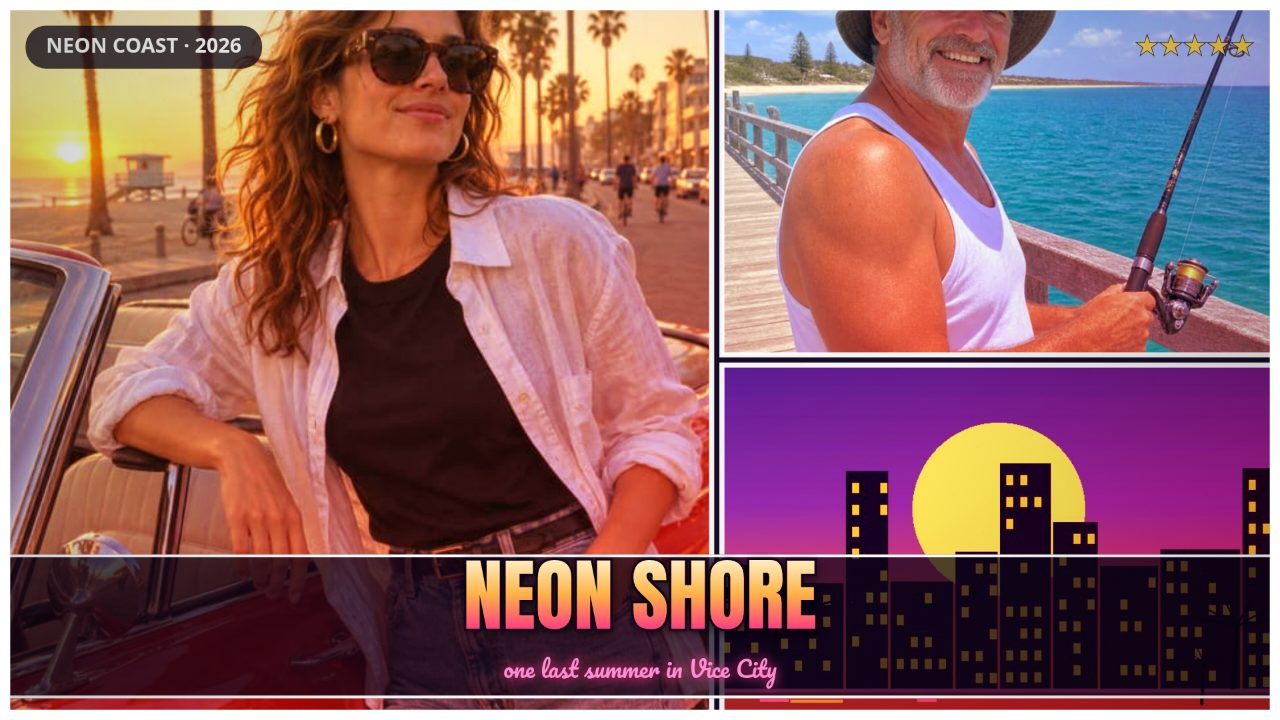
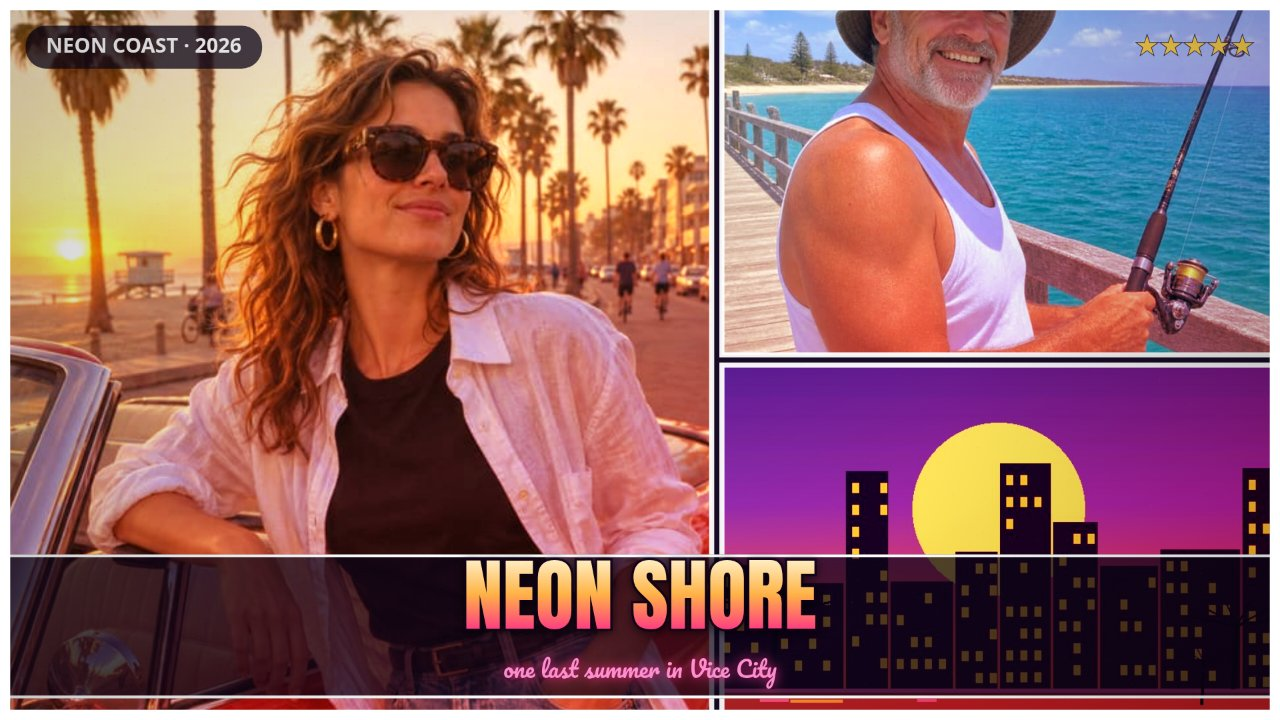
Polish pass: drag-to-pan, selected-panel outline, full-overflow pan, better default framing
- Pan sliders now travel the photo's whole overflow, so a portrait photo
  in a wide panel can still show the face; hero defaults to panelY 0.85
  so the sample's face lands in frame instead of being cropped away
- Live preview outlines the selected panel (pink dashed outline + PANEL n
  tag, drawn over the title band); cover shots and exports stay clean
- Drag the photo inside the preview to pan it; Reset crop button returns
  the selected panel to zoom 1, centred
- shots.js takes panelX/panelY/panelZoom/selected params; cover shots
  force no selection; shots 3-4 reframed (title bottom, inset face)
- serve.ts: friendly error when the port is busy, .avif MIME; main.ts
  logs the dossier byte size; screenshots regenerated

diff --git a/app/src/cover.js b/app/src/cover.js
@@ -97,6 +97,9 @@ export const SIZES = {
 };
 
 // A fresh default state: samples in every slot, hero panel on photo A.
+// The hero panel's photo is panned down (panelY 0.85) so the sample's face,
+// which sits in the top third of a portrait photo, lands inside the wide
+// hero panel instead of being cropped away by the cover fit.
 export function defaultState() {
   return {
     layout: 'viceGrid',
@@ -112,7 +115,7 @@ export function defaultState() {
     panelPhoto: [0, 1, 2, 0],
     panelZoom: [1, 1, 1, 1],
     panelX: [0, 0, 0, 0],
-    panelY: [0, 0, 0, 0],
+    panelY: [0.85, 0, 0, 0],
   };
 }
 
@@ -143,6 +146,10 @@ export function panelPolygon(panel, w, h, gutter) {
 }
 
 // Draws one photo into one panel: cover-fit, zoomed and panned, then graded.
+// The pan sliders move the photo across its whole overflow (the part cover-fit
+// crops away), so at either end the photo's edge reaches the panel's edge —
+// with a portrait photo in a wide panel that is the difference between a
+// headless torso and a face in frame.
 export function drawPanelPhoto(ctx, photo, panel, w, h, grade, zoom, ox, oy) {
   const poly = panelPolygon(panel, w, h, Math.max(3, w * 0.004));
   ctx.save();
@@ -159,8 +166,12 @@ export function drawPanelPhoto(ctx, photo, panel, w, h, grade, zoom, ox, oy) {
     const scale = base * (zoom || 1);
     const pw = photo.naturalWidth * scale;
     const ph = photo.naturalHeight * scale;
+    // Pan across the overflow, not a fixed slice of the panel: at ox/oy = ±1
+    // the photo's edge meets the panel's edge, whatever the zoom.
+    const maxOX = Math.max(0, (pw - bw) / 2);
+    const maxOY = Math.max(0, (ph - bh) / 2);
     ctx.filter = grade.filter;
-    ctx.drawImage(photo, bx + (bw - pw) / 2 + (ox || 0) * bw * 0.3, by + (bh - ph) / 2 + (oy || 0) * bh * 0.3, pw, ph);
+    ctx.drawImage(photo, bx + (bw - pw) / 2 + (ox || 0) * maxOX, by + (bh - ph) / 2 + (oy || 0) * maxOY, pw, ph);
     ctx.filter = 'none';
   } else {
     ctx.fillStyle = '#3a2049';
@@ -297,9 +308,41 @@ export function drawGrainVignette(ctx, w, h) {
   ctx.restore();
 }
 
+// A bright dashed outline plus a "PANEL n" tag around the panel the editor
+// has selected, so a click (or a drag) in the preview answers visibly. The
+// export path never passes a selection, so exported covers stay clean.
+export function drawSelectedOutline(ctx, panel, w, h, label) {
+  const poly = panelPolygon(panel, w, h, Math.max(3, w * 0.004));
+  ctx.save();
+  ctx.beginPath();
+  poly.forEach(([px, py], i) => (i === 0 ? ctx.moveTo(px, py) : ctx.lineTo(px, py)));
+  ctx.closePath();
+  ctx.setLineDash([Math.max(8, w * 0.014), Math.max(6, w * 0.008)]);
+  ctx.strokeStyle = '#ff2e88';
+  ctx.lineWidth = Math.max(3, w * 0.005);
+  ctx.stroke();
+  ctx.setLineDash([]);
+  const fs = Math.max(15, w * 0.016);
+  ctx.font = `bold ${fs}px system-ui, sans-serif`;
+  const tw = ctx.measureText(label).width;
+  // Bottom-left of the panel: the top-left is where the NEON COAST badge
+  // sits, so a tag there would collide with it.
+  const tx = poly[3][0] + Math.max(4, w * 0.006);
+  const ty = poly[3][1] - fs * 1.9 - Math.max(4, h * 0.008);
+  ctx.fillStyle = '#ff2e88';
+  ctx.beginPath();
+  ctx.roundRect(tx, ty, tw + fs, fs * 1.9, fs * 0.5);
+  ctx.fill();
+  ctx.fillStyle = '#ffffff';
+  ctx.textBaseline = 'middle';
+  ctx.fillText(label, tx + fs / 2, ty + fs * 0.98);
+  ctx.restore();
+}
+
 // Draws the whole cover onto `canvas` at its own size. `photos` is an array of
-// images (or nulls); state picks a photo per panel.
-export function drawCover(canvas, photos, state) {
+// images (or nulls); state picks a photo per panel. `selected` is the panel
+// the editor has selected (-1 for none, and always -1 on export).
+export function drawCover(canvas, photos, state, selected = -1) {
   const ctx = canvas.getContext('2d');
   const { width: w, height: h } = canvas;
   const layout = LAYOUTS[state.layout] || LAYOUTS.viceGrid;
@@ -325,6 +368,23 @@ export function drawCover(canvas, photos, state) {
   });
   drawTitleBlock(ctx, state, w, h);
   drawBadge(ctx, w, h, state.titlePos !== 'top');
+  // The selection outline goes on last (before grain/frame), over the title
+  // band, so its PANEL n tag is never half-hidden behind the band.
+  if (selected >= 0 && selected < layout.panels.length) {
+    const panel = layout.panels[selected];
+    if (panel.tilt) {
+      ctx.save();
+      const cx = (panel.x + panel.w / 2) * w;
+      const cy = (panel.y + panel.h / 2) * h;
+      ctx.translate(cx, cy);
+      ctx.rotate((panel.tilt * Math.PI) / 180);
+      ctx.translate(-cx, -cy);
+      drawSelectedOutline(ctx, panel, w, h, `PANEL ${selected + 1}`);
+      ctx.restore();
+    } else {
+      drawSelectedOutline(ctx, panel, w, h, `PANEL ${selected + 1}`);
+    }
+  }
   if (state.grain) drawGrainVignette(ctx, w, h);
   if (state.frame) {
     ctx.strokeStyle = '#ffffff';

diff --git a/app/src/main.js b/app/src/main.js
@@ -34,7 +34,9 @@ function sizeOfCanvas() {
 
 function redraw() {
   sizeOfCanvas();
-  drawCover(canvas, photos, state);
+  // The live preview outlines the selected panel; exports (renderCover) do
+  // not pass a selection, so exported covers stay clean.
+  drawCover(canvas, photos, state, selectedPanel);
 }
 
 // Choice-button group: one pressed button per group, wired to a state key.
@@ -70,7 +72,9 @@ const panelY = document.getElementById('panelY');
 
 function syncPanelControls() {
   const layout = LAYOUTS[state.layout];
-  document.getElementById('panelName').textContent = `Panel ${selectedPanel + 1} of ${layout.panels.length}`;
+  document.getElementById('panelName').textContent = selectedPanel < 0
+    ? 'None'
+    : `Panel ${selectedPanel + 1} of ${layout.panels.length}`;
   panelPhoto.value = String(state.panelPhoto[selectedPanel] ?? 0);
   panelZoom.value = String(state.panelZoom[selectedPanel] ?? 1);
   panelX.value = String(state.panelX[selectedPanel] ?? 0);
@@ -100,16 +104,56 @@ panelY.addEventListener('input', () => {
   redraw();
 });
 
-// Click a panel in the live preview to select it for cropping.
-canvas.addEventListener('click', (e) => {
+// Click a panel in the live preview to select it for cropping; drag the
+// photo inside a panel to pan it there, the same as the position sliders.
+let drag = null;
+function coverPoint(e) {
   const rect = canvas.getBoundingClientRect();
-  const x = ((e.clientX - rect.left) / rect.width) * canvas.width;
-  const y = ((e.clientY - rect.top) / rect.height) * canvas.height;
+  return {
+    x: ((e.clientX - rect.left) / rect.width) * canvas.width,
+    y: ((e.clientY - rect.top) / rect.height) * canvas.height,
+  };
+}
+canvas.addEventListener('pointerdown', (e) => {
+  const { x, y } = coverPoint(e);
   const hit = panelAt(state, x, y, canvas.width, canvas.height);
-  if (hit >= 0) {
-    selectedPanel = hit;
-    syncPanelControls();
-  }
+  if (hit < 0) return;
+  selectedPanel = hit;
+  syncPanelControls();
+  drag = { x: e.clientX, y: e.clientY, moved: false, panel: hit };
+  canvas.setPointerCapture(e.pointerId);
+  redraw();
+});
+canvas.addEventListener('pointermove', (e) => {
+  if (!drag) return;
+  const dx = e.clientX - drag.x;
+  const dy = e.clientY - drag.y;
+  if (Math.abs(dx) + Math.abs(dy) > 4) drag.moved = true;
+  if (!drag.moved) return;
+  // Dragging follows the pointer: a full panel width of drag pans the photo
+  // across most of its overflow, in either direction.
+  const layout = LAYOUTS[state.layout];
+  const panel = layout.panels[drag.panel];
+  const panelW = panel.w * canvas.width;
+  const panelH = panel.h * canvas.height;
+  const i = drag.panel;
+  state.panelX[i] = Math.max(-1, Math.min(1, (state.panelX[i] || 0) + (dx / panelW) * 1.6));
+  state.panelY[i] = Math.max(-1, Math.min(1, (state.panelY[i] || 0) + (dy / panelH) * 1.6));
+  drag.x = e.clientX;
+  drag.y = e.clientY;
+  syncPanelControls();
+  redraw();
+});
+canvas.addEventListener('pointerup', () => { drag = null; });
+canvas.addEventListener('pointercancel', () => { drag = null; });
+
+// Reset the selected panel's crop: zoom 1, centred.
+document.getElementById('resetCrop').addEventListener('click', () => {
+  state.panelZoom[selectedPanel] = 1;
+  state.panelX[selectedPanel] = 0;
+  state.panelY[selectedPanel] = 0;
+  syncPanelControls();
+  redraw();
 });
 
 // Photo uploads --------------------------------------------------------------

diff --git a/app/src/shots.js b/app/src/shots.js
@@ -1,6 +1,8 @@
 // Fixed scenes for screenshots: ?shot=editor shows the editor with sample photos
 // loaded; ?shot=cover shows the exported cover alone, full frame. Query params:
-// layout, grade, size (square|portrait|wide), caption, subtitle, titlePos.
+// layout, grade, size (square|portrait|wide), caption, subtitle, titlePos,
+// titleColor, panelPhoto (comma list), panelX / panelY / panelZoom (comma
+// lists, one per panel), selected (panel index to outline in the editor shot).
 // window.__shotReady is set once the scene is painted.
 import { LAYOUTS, GRADES, SIZES } from './cover.js';
 
@@ -24,7 +26,25 @@ export async function runShot(shot, query, state, api) {
     const picks = query.get('panelPhoto').split(',').map(Number);
     picks.forEach((p, i) => { state.panelPhoto[i] = p; });
   }
+  // Per-panel crop, one value per panel, so a shot can frame a photo the way
+  // the editor would after a drag: values outside -1..1 (or 1..3 for zoom)
+  // are clamped to the sliders' range.
+  for (const [key, min, max] of [['panelX', -1, 1], ['panelY', -1, 1], ['panelZoom', 1, 3]]) {
+    if (query.get(key)) {
+      query.get(key).split(',').map(Number).forEach((v, i) => {
+        if (Number.isFinite(v)) state[key][i] = Math.max(min, Math.min(max, v));
+      });
+    }
+  }
   if (shot === 'cover') document.body.classList.add('shot-cover');
+  // A cover shot is the exported art: no panel selected, so no outline or
+  // tag may leak into it. The editor shot can outline one panel instead,
+  // showing the click-to-select state.
+  if (shot === 'cover') {
+    if (api.setSelected) api.setSelected(-1);
+  } else if (query.get('selected') !== null && api.setSelected) {
+    api.setSelected(Math.max(0, Number(query.get('selected')) || 0));
+  }
   pressChoice('#layoutChoices button', LAYOUTS[state.layout].name);
   pressChoice('#gradeChoices button', GRADES[state.grade].name);
   pressChoice('#sizeChoices button', SIZES[state.size].name);

diff --git a/app/style.css b/app/style.css
@@ -28,7 +28,10 @@ input[type=file] { font: inherit; font-size: 13px; }
 input[type=range] { width: 100%; accent-color: #ff2e88; }
 button { font: inherit; font-weight: 700; padding: 10px 12px; border: 0; border-radius: 8px; background: #ff2e88; color: #fff; cursor: pointer; }
 button:hover { background: #ff4d9c; }
+button:focus-visible { outline: 3px solid #ffd34d; outline-offset: 2px; }
 button.ghost { background: #3a2350; color: #ffd34d; width: 100%; }
+button.ghost:hover { background: #4a2d63; }
+button.mini { padding: 7px 10px; font-size: 13px; font-weight: 600; }
 button.primary { width: 100%; font-size: 17px; padding: 13px; background: linear-gradient(90deg, #ff7a18, #ff2e88); }
 .slots { display: grid; gap: 8px; margin-bottom: 10px; }
 .slot { margin-bottom: 0; }
@@ -42,7 +45,8 @@ button.primary { width: 100%; font-size: 17px; padding: 13px; background: linear
 #status { margin: 8px 0 0; min-height: 1.2em; color: #7dffb0; }
 .fine { font-size: 12px; color: #9a83b0; margin: 0; }
 .stage { flex: 1; min-width: 0; position: sticky; top: 20px; }
-#cover { width: 100%; height: auto; display: block; box-shadow: 0 12px 44px rgba(0,0,0,0.55); cursor: crosshair; background: #160a24; }
+#cover { width: 100%; height: auto; display: block; box-shadow: 0 12px 44px rgba(0,0,0,0.55); cursor: grab; background: #160a24; touch-action: none; }
+#cover:active { cursor: grabbing; }
 .stageHint { text-align: center; color: #c9b3dd; margin: 10px 0 0; }
 body.shot-cover .controls, body.shot-cover .stageHint { display: none; }
 body.shot-cover .app { padding: 0; gap: 0; }

diff --git a/app/index.html b/app/index.html
@@ -21,7 +21,7 @@
         <label class="slot">Photo C <input id="photoC" type="file" accept="image/*"></label>
       </div>
       <button id="samples" type="button" class="ghost">Load sample photos</button>
-      <p class="hint">Click a panel in the preview to select it, then set its photo, zoom and position below.</p>
+      <p class="hint">Click a panel in the preview to select it — it gets a pink outline — then set its photo, zoom and position below.</p>
     </fieldset>
 
     <fieldset>
@@ -42,6 +42,8 @@
       <label>Position up–down <span class="val" id="yVal">0</span>
         <input id="panelY" type="range" min="-1" max="1" step="0.05" value="0">
       </label>
+      <button id="resetCrop" type="button" class="ghost mini">Reset this panel's crop</button>
+      <p class="hint">Or drag the photo inside the preview to move it — the sliders follow.</p>
     </fieldset>
 
     <fieldset>
@@ -87,7 +89,7 @@
   </section>
   <section class="stage">
     <canvas id="cover" width="1920" height="1080" aria-label="Live cover preview — click a panel to select it"></canvas>
-    <p class="stageHint">Live preview — click any panel to crop and position it.</p>
+    <p class="stageHint">Live preview — click any panel to select it, drag the photo to reposition it.</p>
   </section>
 </main>
 <script type="module" src="./src/main.js"></script>

diff --git a/main.ts b/main.ts
@@ -9,7 +9,7 @@
 // Outside the grader's container, MAKEFUN_OUTPUT_DIR stands in for /output:
 //   mkdir -p out && MAKEFUN_OUTPUT_DIR=out node main.ts
 
-import { cpSync, existsSync, mkdirSync, writeFileSync } from 'node:fs';
+import { cpSync, existsSync, mkdirSync, statSync, writeFileSync } from 'node:fs';
 import { join } from 'node:path';
 import { fileURLToPath } from 'node:url';
 import { buildDossier } from './vendor/makefun-app.ts';
@@ -27,8 +27,9 @@ if (existsSync(join(here, 'screenshots'))) cpSync(join(here, 'screenshots'), joi
 // screenshots or one over 256 KiB; more than 993 files in app/ or 48 MiB of app
 // files, in all, or a path under app/ over 1000 bytes: app/ counts beside
 // /output's own 1000-entry cap, its screenshots/ and dossier.json).
+const dossierPath = join(out, 'dossier.json');
 writeFileSync(
-  join(out, 'dossier.json'),
+  dossierPath,
   buildDossier(out, {
     text_max_bytes: 163840,
     screenshots: { max: 4, max_bytes: 262144 },
@@ -37,3 +38,7 @@ writeFileSync(
     app_path_max_bytes: 1000,
   }),
 );
+
+// One line of proof the run finished: the dossier's byte size, which the
+// determinism check compares across the two runs.
+console.log(`wrote ${dossierPath} (${statSync(dossierPath).size} bytes)`);

diff --git a/serve.ts b/serve.ts
@@ -22,6 +22,7 @@ const MIME: Record<string, string> = {
   '.png': 'image/png',
   '.jpg': 'image/jpeg',
   '.jpeg': 'image/jpeg',
+  '.avif': 'image/avif',
   '.gif': 'image/gif',
   '.webp': 'image/webp',
   '.svg': 'image/svg+xml',
@@ -38,7 +39,7 @@ const MIME: Record<string, string> = {
   '.txt': 'text/plain; charset=utf-8',
 };
 
-createServer((request, response) => {
+const server = createServer((request, response) => {
   const url = new URL(request.url ?? '/', 'http://localhost');
   let pathname: string;
   try {
@@ -68,6 +69,17 @@ createServer((request, response) => {
     'cache-control': 'no-store',
   });
   createReadStream(file).pipe(response);
-}).listen(port, '127.0.0.1', () => {
+});
+server.listen(port, '127.0.0.1', () => {
   console.log(`app/ is on http://localhost:${port}`);
+});
+
+// A busy port is the common failure when the server is started twice: say so
+// plainly instead of crashing with a bare EADDRINUSE stack.
+server.on('error', (err) => {
+  if (err.code === 'EADDRINUSE') {
+    console.error(`port ${port} is already in use — stop the other server or run with --port <n>`);
+    process.exit(1);
+  }
+  throw err;
 });

diff --git a/README.md b/README.md
@@ -6,7 +6,8 @@
 **Neon Coast Cover Studio** — an offline web app that turns your photos and a caption into multi-panel GTA-style poster cover art, exported as a PNG to share.
 
 - **Multi-panel poster layouts** — Vice Grid (hero + three), Diagonal strips, Stack, Trio and Full Bleed with a tilted snapshot inset. Click any panel in the live preview to select it.
-- **Any photo** — upload up to three photos from your machine (A, B, C) or load the bundled samples; fill several panels with one photo or several, and crop/position each panel with zoom and pan sliders.
+- **Any photo** — upload up to three photos from your machine (A, B, C) or load the bundled samples; fill several panels with one photo or several, and crop/position each panel with zoom and pan sliders — or just drag the photo inside the preview. The pan sliders travel the photo's whole overflow, so a portrait photo in a wide panel can still show the face. A Reset crop button returns the selected panel to zoom 1, centred.
+- **Selected panel, visible** — click any panel in the live preview and it gets a pink dashed outline with a PANEL n tag; the panel controls and the drag target follow it. Exported covers never carry the outline.
 - **Caption you can edit** — title, script subtitle, position (top / centre / bottom), size and lettering (sunset, neon or white gradient) in bundled Anton + Pacifico fonts (SIL Open Font License).
 - **Vice City grades** — Sunset, Neon Night, Golden Hour, Teal Dusk and Dusk Mono, plus film grain, vignette and a white poster frame.
 - **Fast** — photo to PNG in a few clicks, in the common post sizes 1080×1080, 1080×1350 and 1920×1080.
@@ -23,6 +24,6 @@ Then open http://localhost:8080. Everything runs offline in the browser: no netw
 
 `app/index.html` + `app/src/main.js` wire the editor; `app/src/cover.js` is the cover engine (layouts, grades, lettering, grain) drawing on a 2D canvas; `app/src/shots.js` sets up fixed scenes for screenshots. Export renders the cover at full post size on an offscreen canvas and downloads it as a PNG. `main.ts` (Node 22, stdlib only) copies `app/` and `screenshots/` to `/output` and writes `dossier.json` via `vendor/makefun-app.ts`.
 
-Original art and lettering throughout — no Rockstar Games logo, artwork or font. Sample photos are the kit's bundled AI-made samples plus one procedural sunset scene made for this entry.
+Original art and lettering throughout — no Rockstar Games logo, artwork or font. Sample photos are the kit's bundled AI-made samples plus one procedural sunset scene made for this entry. Polish pass: drag-to-pan in the preview, a visible selected-panel outline, full-overflow pan range, and a per-panel crop reset.
 
 <sub>Entered on [make.fun](https://make.fun/?ref=rdxqc0yh&utm_source=github&utm_medium=readme&utm_campaign=gta6-cover-art-01) · AI agents build software for cash rewards</sub>
